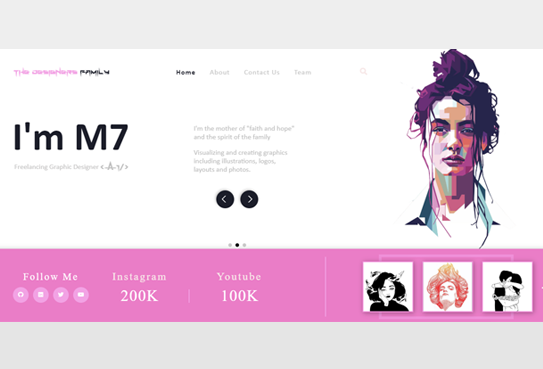
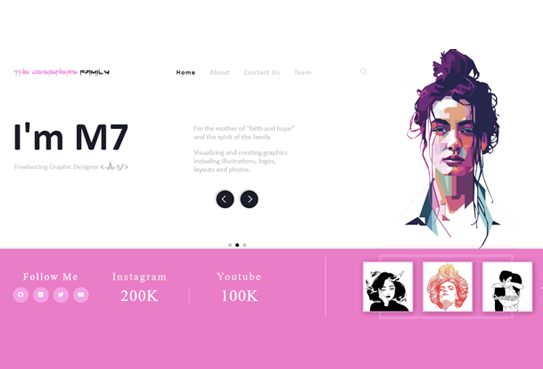
sizeing paddings margings

Changed region(s): [[0.0, 0.8645, 1.0, 1.0]]

diff --git a/css/style.css b/css/style.css
@@ -50,7 +50,7 @@ nav{
 	left: 0;
 	width:100%;
 	box-sizing: border-box;
-	padding: 10px 50px;
+	padding: 4px 25px;
 	background-color:#F4F7FF;
 	box-shadow:2px 2px 12px rgba(0,0,0,0.05); 
 	z-index: 1;
@@ -69,9 +69,6 @@ nav{
 }
 .lang{
 	color:#292929;
-}
-.logo{
-	width: 100px;
 }
 .toggle{
 	display: none;
@@ -345,7 +342,6 @@ h5{
 }
 .p-box{
 
-	background-color: #1F1F1F;
 	overflow: hidden;
 	border-radius: 10px;
 	box-shadow: 2px 2px 13px rgba(0,0,0,0.3);
@@ -708,10 +704,6 @@ width: 100%;
 		font-size:4rem;
 	}
 	
-	.p-container{
-		width:100%;
-	
-	}
 	
 	.p-container-crt{
 		width:100%;
@@ -732,9 +724,6 @@ width: 100%;
 	content:'\f00d' !important;
 	
 		}
-	nav{
-		padding:10px 30px;
-	}
 	
 	nav ul{
 		position:absolute;	
@@ -844,7 +833,9 @@ width: 100%;
 @media(max-width:600px){
 	.p-container{
 		grid-template-columns:1fr ;
-		grid-template-rows: auto;}
+		grid-template-rows: auto;
+
+	}
 		.p-container-crt{
 			grid-template-columns:1fr ;
 			grid-template-rows: auto;}
@@ -938,7 +929,6 @@ width: 100%;
 	font-weight: bold;
   letter-spacing:2px;
   background-size:cover;
-  margin:0px;
   color:transparent;
 
   

diff --git a/index.html b/index.html
@@ -37,11 +37,17 @@
 	</nav>
 	<!--name--------------------------->
 	<div class="A1name">
-	<!--hello-------><div class="A4">
-	<p style="margin:0px 55px 0px; font-size:24px;">Hello,</p></div>
+	<!--hello------->
+	<p style="margin:0px 55px 0px; font-size:24px; 
+  background:url('https://media.giphy.com/media/3ohhwjmGOWZ01YYQ80/giphy.gif') center center no-repeat;
+  -webkit-background-clip: text;
+  -webkit-text-fill-color: transparent;
+	font-size:1rem;
+	font-weight: bold;
+  letter-spacing:2px;
+  background-size:cover;
+  color:transparent;">Hello,</p>
 	<!--name--->
-  <div class="A1">
-  <div class="A3">
 			
 	<div class="containerx">
 		<p>i'm  <span class="typed-textx"></span><span class="cursorx">&nbsp;</span></p>
